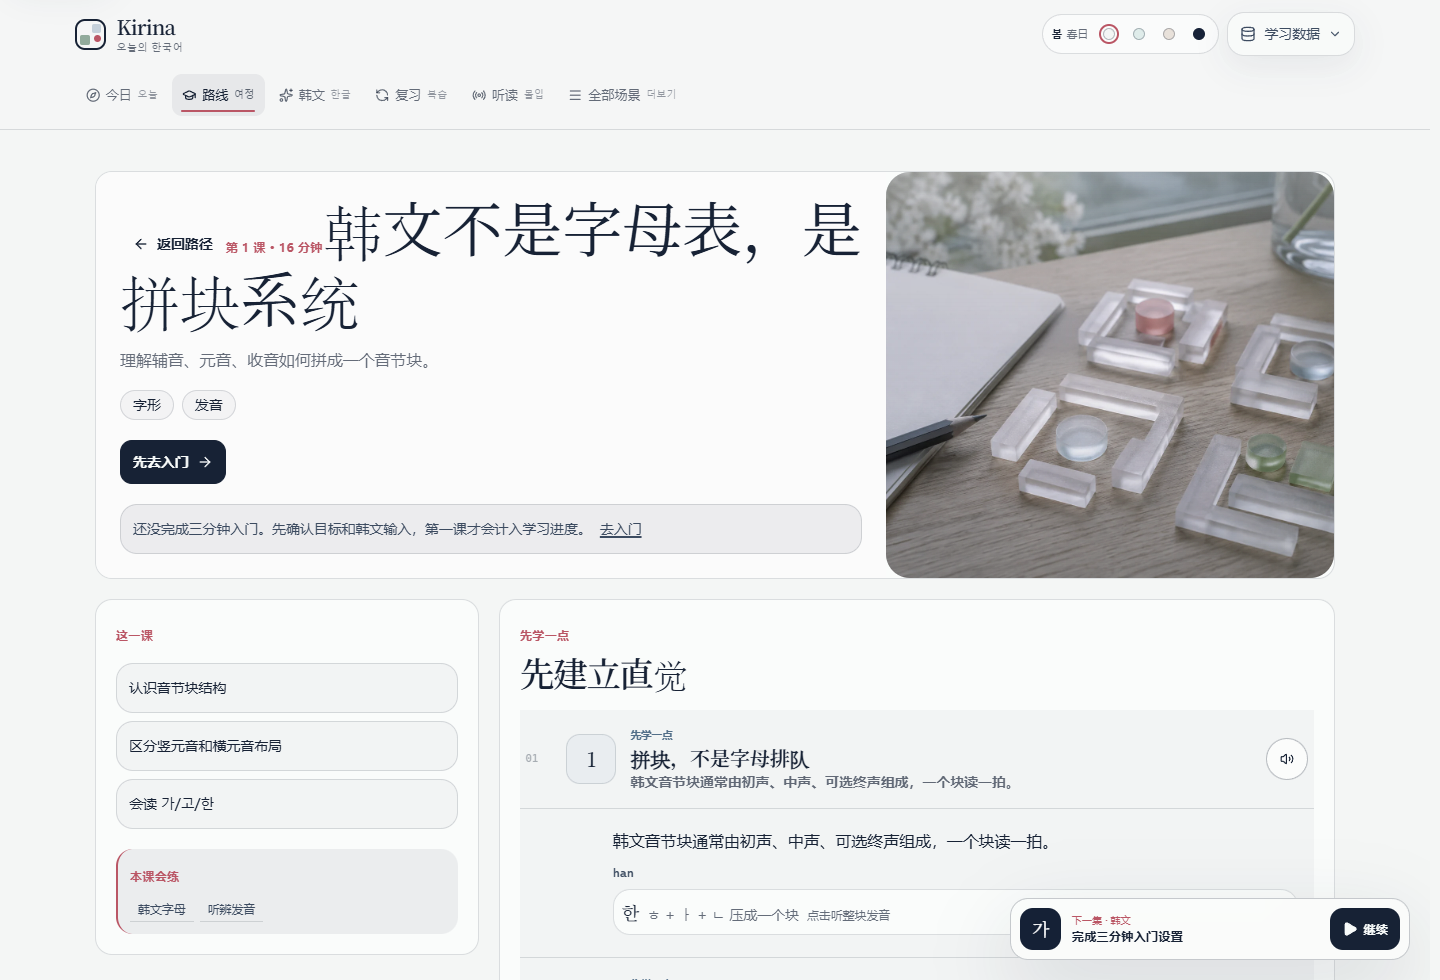
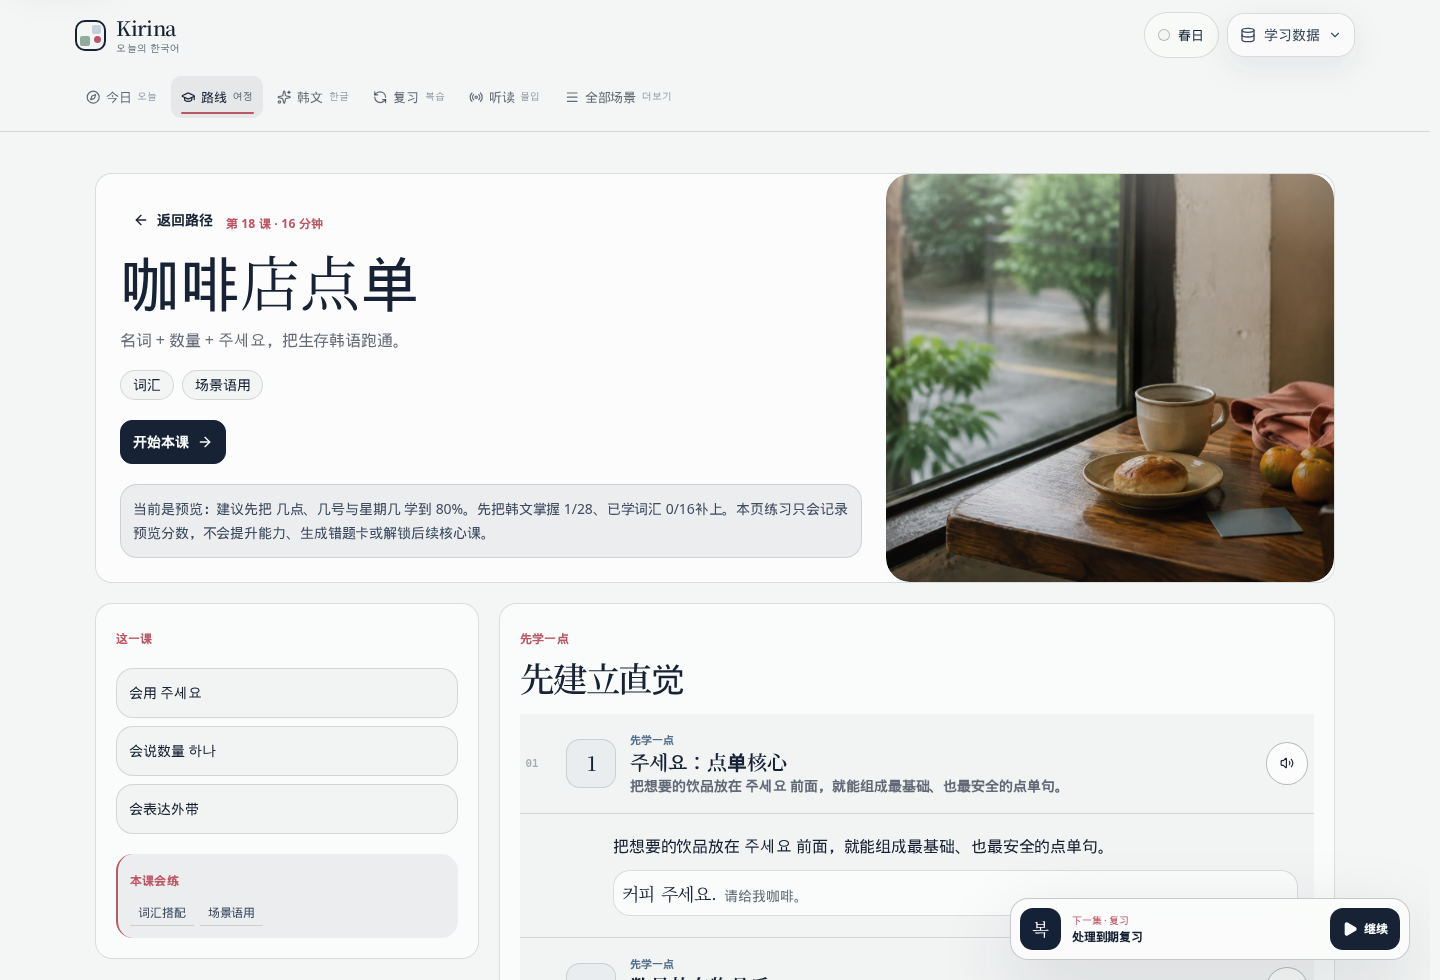
docs: recapture product screenshots after four-season redesign
Replace stale README captures with production-build screenshots of the
current cinema desk, Hangul Studio, café Immersion Lab, five-stage path,
due review queue, and café lesson.

diff --git a/README.md b/README.md
@@ -6,14 +6,14 @@ Kirina Korean 是一个从零基础开始学习韩语的 Next.js 在线学习应
 
 ![学习工作台](docs/screenshots/hero-workspace.png)
 
-<p align="center"><em>今日片场：一幅季节场景、一个下一步，以及当天最值得完成的三幕学习。</em></p>
+<p align="center"><em>今日片场：春日默认主题下一幅季节场景、一个下一步，以及当天最值得完成的三幕学习。页眉可切换春日 / 雨季 / 晚秋 / 蓝夜。</em></p>
 
 ### 产品界面
 
 | Hangul Studio | Immersion Lab |
 |:---:|:---:|
 | ![韩文实验室](docs/screenshots/hangul.png) | ![情境材料](docs/screenshots/immersion.png) |
-| 韩文实验室：拆音节块、辨听相近发音，再把掌握项加入复习。 | 自编咖啡店情境：逐句听读、遮住译文听写，再用韩语复述。 |
+| 韩文实验室：拆音节块、辨听相近发音，再把掌握项加入复习。 | 自编咖啡店情境：逐句听读、遮住译文听写；未完成的草稿会自动保存，点到当前材料也不会丢掉。 |
 
 | 五阶段路径 | 间隔复习 |
 |:---:|:---:|
@@ -22,7 +22,7 @@ Kirina Korean 是一个从零基础开始学习韩语的 Next.js 在线学习应
 
 ![咖啡店点单课](docs/screenshots/lesson.png)
 
-<p align="center"><em>课程页：目标、讲解、听读和练习会汇总到同一份学习记录。</em></p>
+<p align="center"><em>课程页：咖啡店点单的目标、讲解、听读和练习会汇总到同一份学习记录。</em></p>
 
 ## 当前能力
 
